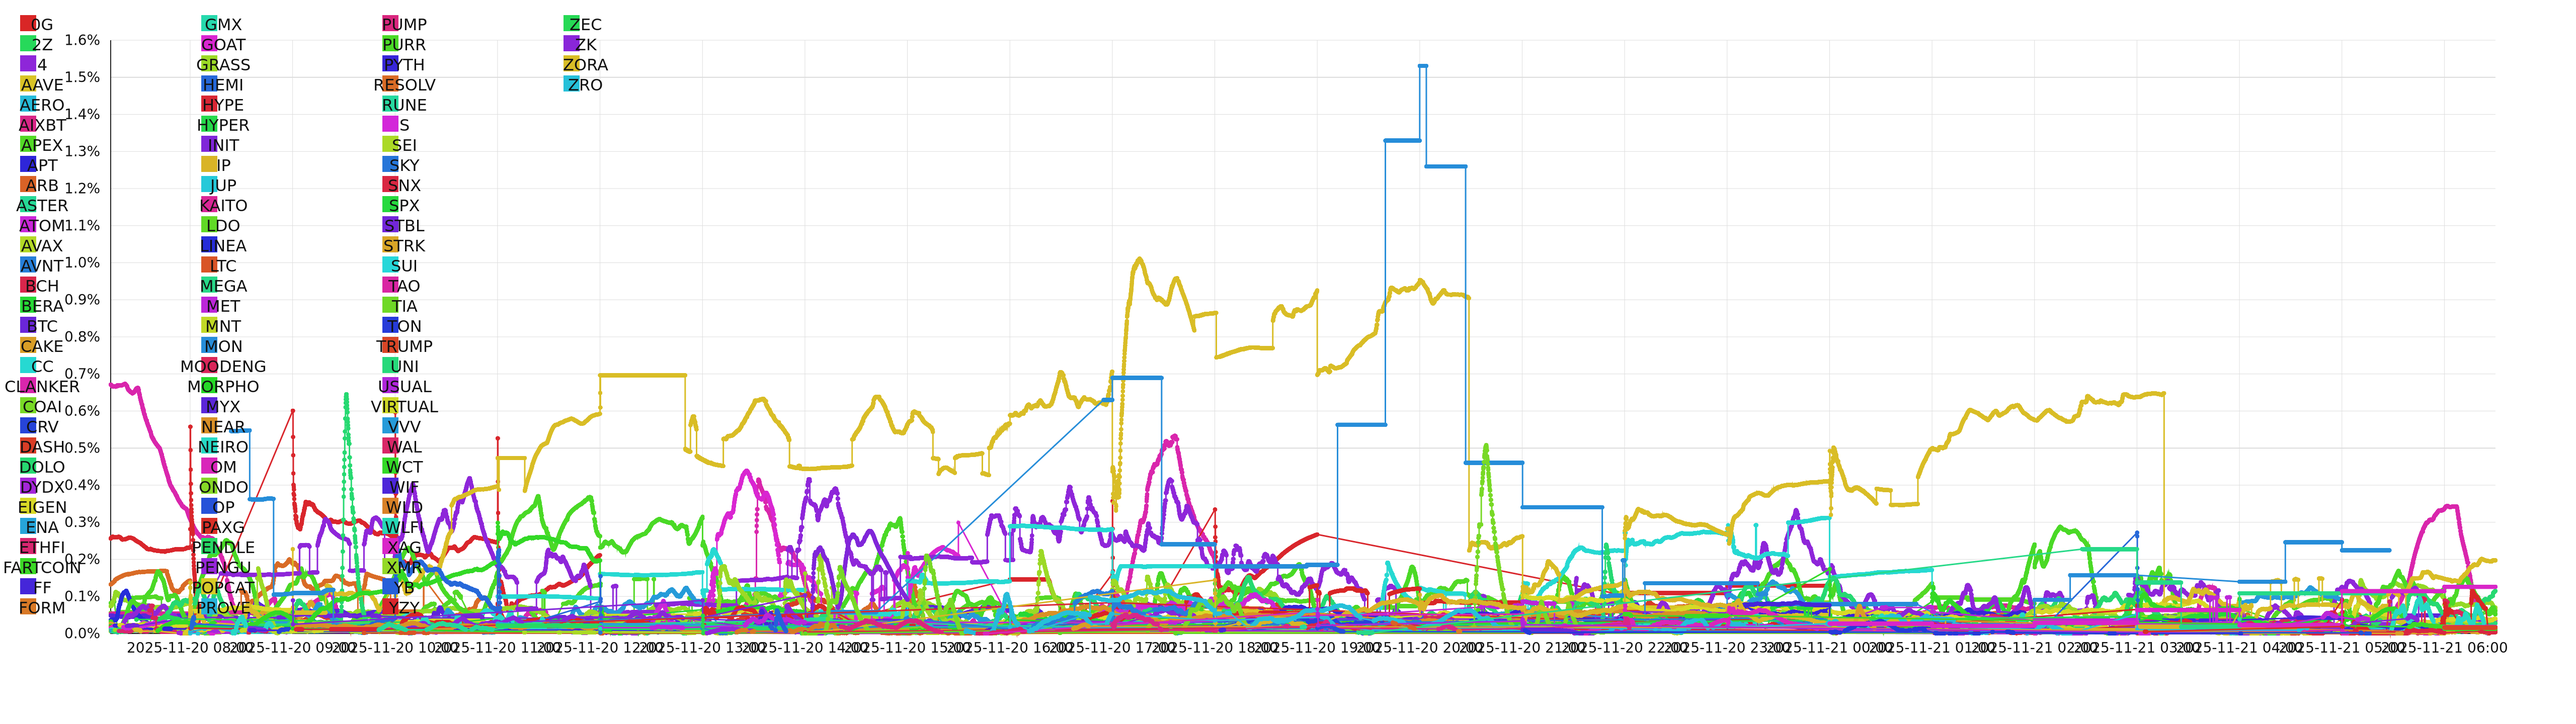
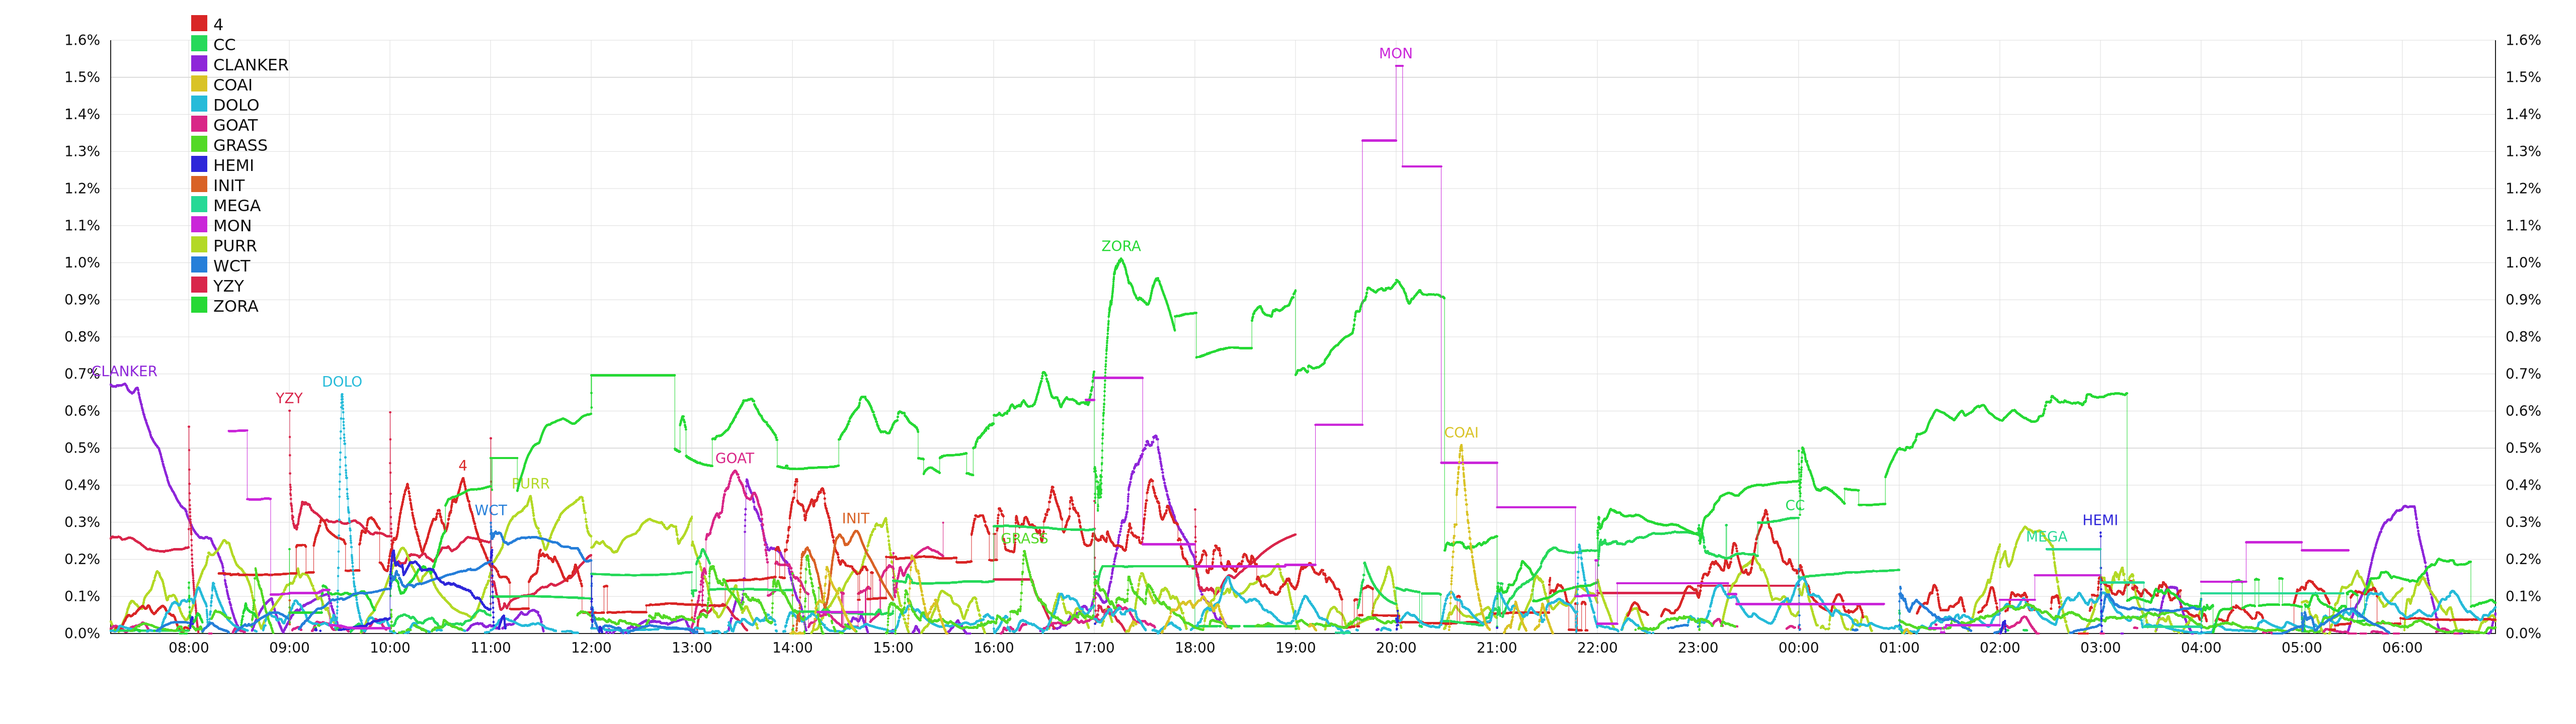
feat: enhance funding rate chart script with improved filtering, progress logging, and visuals

diff --git a/examples/ts/bots/draw-funding-rate.ts b/examples/ts/bots/draw-funding-rate.ts
@@ -16,6 +16,10 @@ const TEXT_COLOR = '#111111';
 const LEGEND_TEXT_SIZE = 32;
 const AXIS_TEXT_SIZE = 28;
 const OUTPUT_PATH = process.env.FUNDING_SPREAD_OUTPUT ?? 'funding-spread.png';
+const LOAD_PROGRESS_STEPS = 20;
+const POINT_RADIUS = 2;
+const MAX_LINE_GAP_MS = 2000;
+const MIN_SYMBOL_DELTA_PERCENT = 0.2;
 
 type SpreadDocument = {
     timestamp: Date;
@@ -51,20 +55,25 @@ const buildPalette = (symbols: string[]): Map<string, string> => {
 };
 
 const drawLegend = (ctx, palette: Map<string, string>) => {
-    const legendX = 40;
     const legendY = 30;
     const lineHeight = LEGEND_TEXT_SIZE + 8;
     const columnWidth = 360;
-    let currentX = legendX;
+    const legendBottomLimit = (HEIGHT / 2) - 40;
+    const legendHeight = Math.max (1, legendBottomLimit - legendY);
+    const maxItemsPerColumn = Math.max (1, Math.floor (legendHeight / lineHeight));
+    const entries = Array.from (palette.entries ());
+    const columnsNeeded = Math.max (1, Math.ceil (entries.length / maxItemsPerColumn));
+    const totalLegendWidth = columnsNeeded * columnWidth;
+    const baseX = Math.max (20, (PADDING.left - totalLegendWidth - 20)) + columnWidth;
+    let currentX = baseX;
     let currentY = legendY;
     ctx.font = `${LEGEND_TEXT_SIZE}px Inter, Arial, sans-serif`;
     ctx.textBaseline = 'top';
+    ctx.textAlign = 'left';
     ctx.fillStyle = TEXT_COLOR;
     let itemsInColumn = 0;
-    const legendHeight = Math.max (1, (HEIGHT / 2) - legendY - 40);
-    const maxItemsPerColumn = Math.max (1, Math.floor (legendHeight / lineHeight));
-    palette.forEach ((color, symbol) => {
-        if (itemsInColumn >= maxItemsPerColumn) {
+    entries.forEach (([symbol, color]) => {
+        if (itemsInColumn >= maxItemsPerColumn || (currentY + LEGEND_TEXT_SIZE > legendBottomLimit)) {
             itemsInColumn = 0;
             currentX += columnWidth;
             currentY = legendY;
@@ -72,7 +81,6 @@ const drawLegend = (ctx, palette: Map<string, string>) => {
         ctx.fillStyle = color;
         ctx.fillRect (currentX, currentY, LEGEND_TEXT_SIZE, LEGEND_TEXT_SIZE);
         ctx.fillStyle = TEXT_COLOR;
-        ctx.textAlign = 'left';
         ctx.fillText (symbol, currentX + LEGEND_TEXT_SIZE + 12, currentY);
         currentY += lineHeight;
         itemsInColumn += 1;
@@ -85,12 +93,34 @@ async function main (): Promise<void> {
     await mongoClient.connect ();
     try {
         const collection = mongoClient.db ('funding').collection<SpreadDocument> ('spread');
-        const documents = await collection.find ({ deltaWFees: { $ne: null } }).sort ({ timestamp: 1 }).toArray ();
+        const filter = { deltaWFees: { $ne: null } };
+        const totalDocs = await collection.countDocuments (filter);
+        const cursor = collection.find (filter).sort ({ timestamp: 1 });
+        const documents: SpreadDocument[] = [];
+        let processed = 0;
+        let lastLoggedStep = -1;
+        for await (const doc of cursor) {
+            documents.push (doc);
+            processed += 1;
+            if (totalDocs > 0) {
+                const currentStep = Math.min (LOAD_PROGRESS_STEPS, Math.floor ((processed / totalDocs) * LOAD_PROGRESS_STEPS));
+                if (currentStep > lastLoggedStep) {
+                    const percent = ((processed / totalDocs) * 100).toFixed (1);
+                    console.log (`Loading spread rows... ${processed}/${totalDocs} (${percent}%)`);
+                    lastLoggedStep = currentStep;
+                }
+            } else if (processed % 1000 === 0) {
+                console.log (`Loading spread rows... ${processed} processed`);
+            }
+        }
+        if (totalDocs > 0 && processed < totalDocs) {
+            console.log (`Loading spread rows... ${processed}/${totalDocs} (100.0%)`);
+        }
         if (documents.length === 0) {
             console.log ('No spread documents found.');
             return;
         }
-        const rows = documents
+        let rows = documents
             .map ((doc) => ({
                 symbol: doc.symbol ?? 'UNKNOWN',
                 timestamp: normalizeTimestamp (doc.timestamp),
@@ -99,6 +129,22 @@ async function main (): Promise<void> {
             .filter ((row) => Number.isFinite (row.timestamp));
         if (rows.length === 0) {
             console.log ('No valid rows with timestamps.');
+            return;
+        }
+
+        const symbolMax = new Map<string, number> ();
+        rows.forEach ((row) => {
+            const currentMax = symbolMax.get (row.symbol) ?? -Infinity;
+            symbolMax.set (row.symbol, Math.max (currentMax, row.deltaWFees));
+        });
+        const allowedSymbols = new Set (
+            Array.from (symbolMax.entries ())
+                .filter (([, maxValue]) => maxValue > MIN_SYMBOL_DELTA_PERCENT)
+                .map (([symbol]) => symbol)
+        );
+        rows = rows.filter ((row) => allowedSymbols.has (row.symbol));
+        if (rows.length === 0) {
+            console.log (`No symbols exceeded ${MIN_SYMBOL_DELTA_PERCENT.toFixed (1)}% delta.`);
             return;
         }
 
@@ -144,6 +190,8 @@ async function main (): Promise<void> {
             ctx.textAlign = 'right';
             ctx.textBaseline = 'middle';
             ctx.fillText (`${val.toFixed (1)}%`, chartLeft - 20, y);
+            ctx.textAlign = 'left';
+            ctx.fillText (`${val.toFixed (1)}%`, chartRight + 20, y);
         }
 
         // Vertical hourly grid
@@ -177,7 +225,7 @@ async function main (): Promise<void> {
         // Prepare series data
         const symbolSet = Array.from (new Set (rows.map ((row) => row.symbol))).sort ();
         const palette = buildPalette (symbolSet);
-        const seriesMap = new Map<string, { color: string; points: { x: number; y: number }[] }>();
+        const seriesMap = new Map<string, { color: string; points: { x: number; y: number; timestamp: number; value: number }[] }>();
         rows.forEach ((row) => {
             const color = palette.get (row.symbol) ?? '#000000';
             if (!seriesMap.has (row.symbol)) {
@@ -186,30 +234,43 @@ async function main (): Promise<void> {
             seriesMap.get (row.symbol).points.push ({
                 x: timeToX (row.timestamp),
                 y: valueToY (row.deltaWFees),
+                value: row.deltaWFees,
+                timestamp: row.timestamp,
             });
         });
 
         // Draw series lines
-        seriesMap.forEach ((series) => {
-            const pts = series.points.sort ((a, b) => a.x - b.x);
+        const paletteEntries = Array.from (palette.entries ());
+        seriesMap.forEach ((series, symbol) => {
+            const pts = series.points.sort ((a, b) => a.timestamp - b.timestamp);
             if (pts.length === 0) {
                 return;
             }
             ctx.strokeStyle = series.color;
-            ctx.lineWidth = 3;
-            ctx.beginPath ();
-            ctx.moveTo (pts[0].x, pts[0].y);
+            ctx.lineWidth = 1;
             for (let i = 1; i < pts.length; i++) {
-                ctx.lineTo (pts[i].x, pts[i].y);
+                const prev = pts[i - 1];
+                const current = pts[i];
+                if ((current.timestamp - prev.timestamp) <= MAX_LINE_GAP_MS) {
+                    ctx.beginPath (); 
+                    ctx.moveTo (prev.x, prev.y);
+                    ctx.lineTo (current.x, current.y);
+                    ctx.stroke ();
+                }
             }
-            ctx.stroke ();
-            // draw points
             pts.forEach ((pt) => {
                 ctx.fillStyle = series.color;
                 ctx.beginPath ();
-                ctx.arc (pt.x, pt.y, 4, 0, Math.PI * 2);
+                ctx.arc (pt.x, pt.y, POINT_RADIUS, 0, Math.PI * 2);
                 ctx.fill ();
             });
+
+            const highest = pts.reduce ((maxPoint, point) => (point.value > maxPoint.value ? point : maxPoint), pts[0]);
+            ctx.fillStyle = series.color;
+            ctx.font = `${AXIS_TEXT_SIZE}px Inter, Arial, sans-serif`;
+            ctx.textAlign = 'center';
+            ctx.textBaseline = 'bottom';
+            ctx.fillText (symbol, highest.x, highest.y - 8);
         });
 
         drawLegend (ctx, palette);
